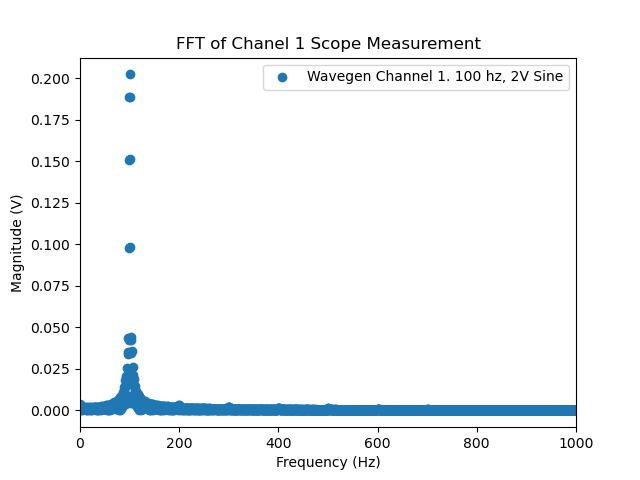
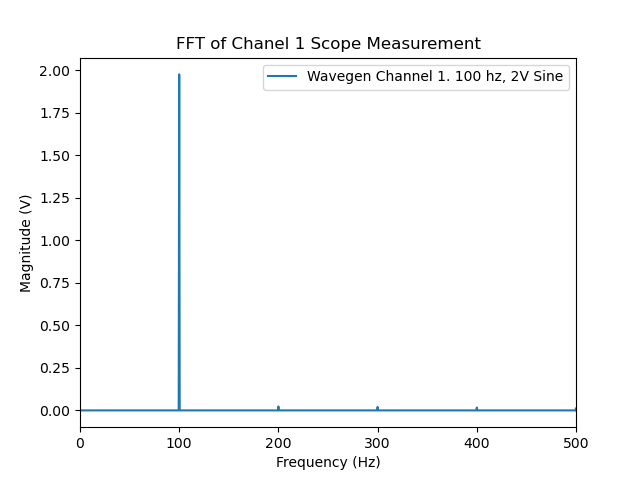
not sure

diff --git a/Lab 10/lab_10_template.py b/Lab 10/lab_10_template.py
@@ -156,7 +156,7 @@ def fft(data: dict):
     avg_timestep = np.mean(np.diff(data["x"])/MS_CONVERSION)
 
     fft_result["frequencies"] = np.fft.fftfreq(n = len(data['x']), d = avg_timestep)
-    fft_result["magnitudes"] = np.abs(np.fft.fft(data['y'], n = len(fft_result["frequencies"]), norm = 'forward'))
+    fft_result["magnitudes"] = np.abs(np.fft.fft(data['y'])*2/len(data['y']))
 
     return fft_result
 
